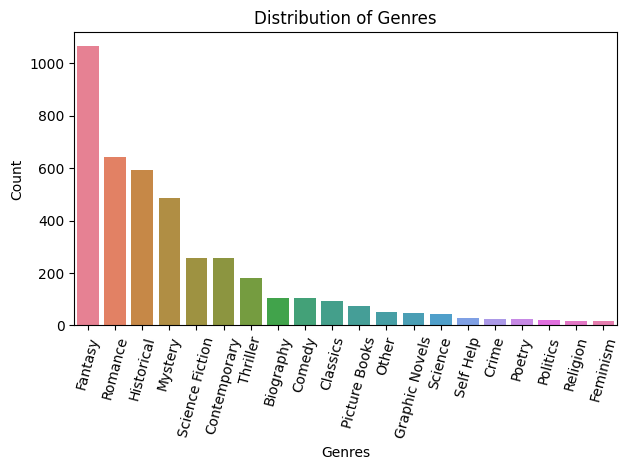
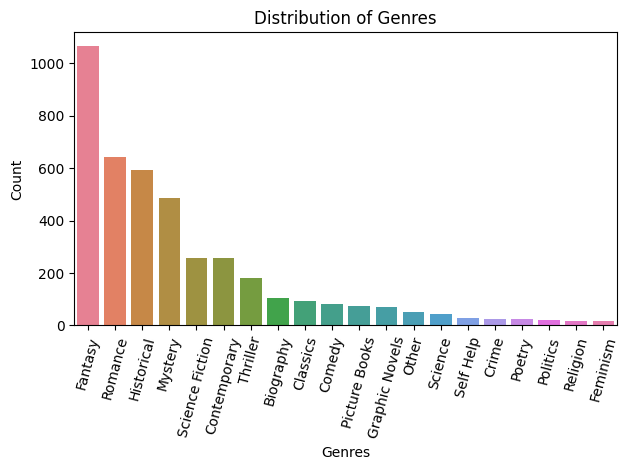
Second reading project completed

diff --git a/content/blog/top-genres/index.md b/content/blog/top-genres/index.md
@@ -1,5 +1,5 @@
 ---
-title: Reading about dragons. Exploring the most popular genres on Goodreads with Seaborn
+title: Reading about dragons. Exploring the most popular genres on Goodreads #with Seaborn
 summary: Personal project, looking at popular genres of fiction and non-fiction books. #shows on the homepage
 date: 2024-05-31
 
@@ -73,7 +73,6 @@ cols_to_drop2 = ['Unnamed: 0', 'isbn', 'series_title', 'description','format', '
 goodreads_clean_df = top_goodreads_df.copy() #tracking changes
 goodreads_clean_df = goodreads_clean_df.drop(cols_to_drop2, axis=1)
 ```
-
 <!-- below: wasn't relevant to my research -->
 <!-- Next, I decided to rename the column *series_release_number* to *series_number* and convert any NaNs in the column to 0 as this with indicate that book wasn't a part of a series. 
 ```python
@@ -139,7 +138,7 @@ Using the **.value_counts()** and **.head()** methods I determined which genres 
 
 ```python
 top_genres_df = genre_type.copy()
-top_genres_df['genre'] = top_genres_df['genres'].str.extract(r'(Fantasy|Mystery|Thriller|Graphic Novels|Romance|Historical Fiction|\
+top_genres_df['genre'] = top_genres_df['genres'].str.extract(r'(Fantasy|Mystery|Thriller|Graphic Novels|Comics|Romance|Historical Fiction|\
               Historical|History|Crime|Science Fiction|Science|Biography|Classics|Self Help|Feminism|\
               Horror|Comedy|Humor|Politics|Poetry|Contemporary|Picture Books|Religion)', expand=False)
 ```
@@ -151,11 +150,12 @@ I also ignored any age specific words (such as *childrens* or *young adult*) as 
 top_genres_df['genre'] = top_genres_df['genre'].replace('Historical Fiction', 'Historical')
 top_genres_df['genre'] = top_genres_df['genre'].replace('History', 'Historical')
 ```
-Likewise, I also renamed *Humor* as *Comedy* to join the two genres.
+Likewise, I also renamed *Humor* as *Comedy*, and *Comics* as *Graphic Novels*, to join the genres.
 ```python
 top_genres_df['genre'] = top_genres_df['genre'].replace('Humor', 'Comedy')
+top_genres_df['genre'] = top_genres_df['genre'].replace('Comics', 'Graphic Novels')
 ```
-<!-- The genre 'Science Fiction was also renamed to 'SciFi' as I noticed that books with that genre were being labelled as 'Science'.
+<!-- The genre 'Science Fiction was also renamed to 'SciFi' as I noticed that books with that genre were being labelled as 'Science' (probably because my code saw 'Science' first).
 ```python
 top_genres_df.loc[scifi.index, 'genre'] = 'SciFi' -->
 ```
@@ -186,7 +186,7 @@ plt.xticks(rotation=75)
 plt.tight_layout()  
 plt.show()
 ```
-The following bar graph indicates that the most popular genre, by far, was *Fantasy*. Least popular were *True Crime*, *Feminism*, and *Religion.*
+The following bar graph indicates that the most popular genre, by far, was *Fantasy*. The least popular were *Feminism*, *Religion*, and *Politics*.
 ![screen reader text](barplot-gen.png "bar graph: genre distribution") 
 
 However, I wanted to dive further and so I proceeded to separate fiction from non-fiction.
@@ -222,9 +222,10 @@ This allowed me to verify that they were all correctly labelled as non-fiction b
 ![screen reader text](screenshot-5.png "type_check['genres'].unique()") 
 
 I was then able to plot my bar graph, illustrating the non-fiction genres:
+
 ![screen reader text](barplot-nf.png "bar graph: non-fiction genres") 
 
-This indicates that the most popular non-fiction genre is **Historical**, followed by **Biography**. 
+This indicates that the most popular non-fiction genre was **Historical**, followed by **Biography**. 
 
 The top 5 non-fiction genres are:
 
@@ -236,7 +237,7 @@ The following bar graph illustrates the top fiction genres:
 
 ![screen reader text](barplot-fic.png "bar graph: fiction genres") 
 
-As you can see, the most popular genre for fiction is **Fantasy**. 
+As you can see, the most popular genre for fiction was **Fantasy**.  
 
 The top 5 fiction genres are:
 
@@ -246,43 +247,65 @@ In both instances I can't comment on the least popular genres as the original da
 I can see that *Classics* and *Picture Books* were the least popular Non-Fiction genres. Similarly, for fiction, the least popular genre was *Politics*, followed by *Feminism*, and *Religion*.
 
 
-<!-- ### 2. What are the highest rated books? 
-  
+### 2. What are the highest rated books? 
+To address this question, I first sorted my DataFrame by the *rating_score* column, in descending order.
+```python
+ordered_ratings_df = goodreads_df.copy().sort_values(by='rating_score', ascending=False)
+ordered_ratings_df.head()
+```
+As a result, I was able to check the highest (**.head()**) and the lowest (**.tail()**) ratings - these were 4.81 and 2.97, respectively. The reason the lowest rating wasn't 0 or 1 is that the dataset was looking at the top 100 books (per year), therefore I wouldn't expect such a low rating. Though it would have been interesting to see what the lowest rated books were.
+
+Building on this, I separated fiction from non-fiction so that I could find the highest (and lowest) rated books per genre type. I did this by creating a mask for non-fiction and passing my *gen_type* series through it to produce a DataFrame of non-fiction only books.
+```python
+nf_ratings_msk = ordered_ratings_df[ordered_ratings_df['gen_type'] == 'Nonfiction'] 
+nf_ratings_msk 
+```
+This allowed me to produce a DataFrame of the top 10 non-fiction ratings and the corresponding book titles.
+```python
+pd.set_option('display.max_colwidth', None) #sets max column width to none 
+nf_ratings_msk[['title', 'authors' ,'rating_score']].head(10)
+```
+Next, I created a horizontal bar graph showing the 10 highest rated non-fiction books.
+
+![screen reader text](top10-nf-ratings.png "bar graph: highest rated non-fiction") 
+
+The highest rated book in non-fiction was 'Know My Name' by Chanel Miller, with a rating of 4.71.
+
+![screen reader text](nf_wordcloud.png "") 
 
 
+As with non-fiction, I created a mask for fiction and produced a DataFrame of fiction books, organised by ratings.
 
+I then plotted the 10 highest rated fiction books on a bar graph.
 
+![screen reader text](top10-fic-ratings.png "bar graph: highest rated fiction") 
 
-![screen reader text]( .png "")  -->
+The highest rated book in fiction was 'The Complete Calvin and Hobbes' by Bill Watterson, with an average rating of 4.81
 
-
+![screen reader text](fic_wordcloud.png "") 
+ 
 
 <!-- ### 3. Me, myself, and I:
-Now the fun part, how does all this reflect my own reading habits?
+Now the fun part, how does all this reflect my own reading habits? -->
 
 
-color='orchid'
-color='lightblue'
-color='mediumpurple' -->
 
-
-<!-- ### Conclusions
+### Conclusions
 - The most popular genre in fiction is fantasy
 - The most popular genre in non-fiction is historical
 
-- 
-- 
+- The highest rated book in non-fiction was 'Know My Name' 
+- The highest rated book in fiction was 'The Complete Calvin and Hobbes' 
+ 
 
 ![screen reader text](dragon_reads.jpg "https://app.leonardo.ai/image-generation") 
 
 ### Aftermath - What did I learn?
-Through this project
+This project provided me with the opportunity to delve into various genres within fiction and non-fiction literature. It enabled me to hone my plotting skills, using Seabornand Matplotlib, exploring a topic that deeply interests me. And most important, I discovered that Fantasy (my personal favourite) is the most popular genres. :dragon_face:
 
-Though I didn't end up using it, I did learn about **.explode().** This method can transform list-like elements (e.g. the genre lists in the original *genres* list of my reading habits DataFrame) into individual rows, with each element of the list getting its own row, like this:
-![screen reader text](screenshot-explode.png "") 
+Even though I ultimately didn't apply it, I did learn about **.explode().** This method can transform list-like elements (e.g. the genre lists in the original *genres* column of my dataset) into separate rows, where each element of the list occupies its own row. I also learnt about Pandas **.set_option('display.max_colwidth', None)** function which allowed me adjust the display settings to avoid truncation so that I could see the full title of books.  
 
- -->
-
+And finally, I learnt that there are a multitude of possibilities and adjustments available when working on a project - from customising plots, to selecting the data visualisation techniques to use, or determining which column(s) to focus on. Having a good idea of what you are actually interested in also helps immensely, and recognising that there is never just one way to do approach a task. 
 
 
 <!-- #### Extensions:
@@ -291,4 +314,3 @@ Do men (18 yrs+) read more non-fiction than women?
 Do more people listen to audiobooks than read physical books? 
 delve deeper into the genres
 -->
-
